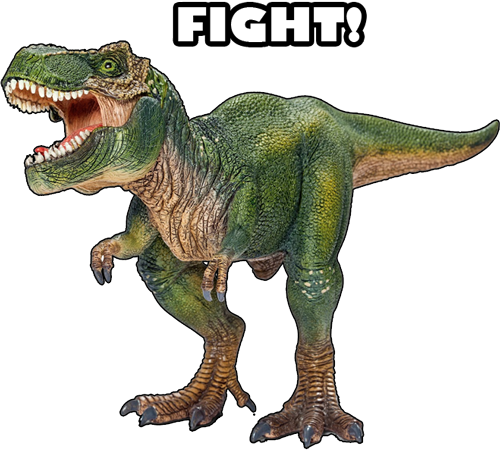
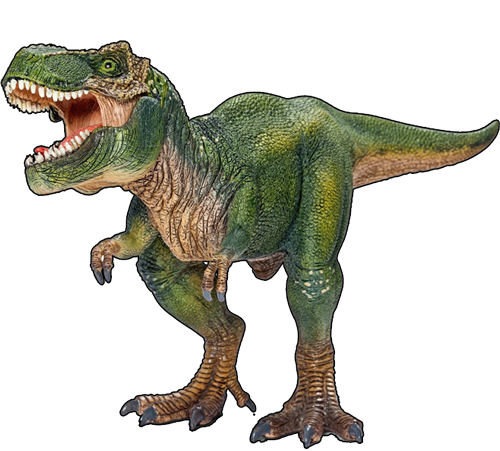
Add Count Down for Fight Scene… Lost one hour thanks to a AndEngine Feature… äääh Bug

Changed region(s): [[0.33, 0.0, 0.75, 0.1242]]

diff --git a/src/gamedev/scenes/FightScene.java b/src/gamedev/scenes/FightScene.java
@@ -16,7 +16,9 @@ import org.andengine.entity.scene.CameraScene;
 import org.andengine.entity.scene.IOnSceneTouchListener;
 import org.andengine.entity.scene.Scene;
 import org.andengine.entity.sprite.Sprite;
+import org.andengine.entity.text.Text;
 import org.andengine.input.touch.TouchEvent;
+import org.andengine.util.HorizontalAlign;
 import org.andengine.util.color.Color;
 import org.andengine.util.math.MathUtils;
 
@@ -27,7 +29,8 @@ public class FightScene extends CameraScene {
 	private final static int FIGHTBAR_WIDTH = 400;
 	private static final int FIGHTBAR_HEIGHT = 300;
 	private final static float TARGET_RADIUS = 50;
-
+	private final static int SECONDS_COUNTDOWN = 1;
+	
 	protected Sprite fightDino;
 	protected Dinosaur dinosaur;
 	protected ResourcesManager resourcesManager;
@@ -38,6 +41,11 @@ public class FightScene extends CameraScene {
 											// seconds)
 	protected float frequencyOfTargets = 0.2f; // How often are new targets
 												// created in seconds
+	protected float countdownTime = 0;
+	protected int countdownIndex = 0;
+	protected boolean countdownActive = false;
+	protected Text countdownText;
+	protected ArrayList<String> countdownStrings = new ArrayList<String>();
 	private static FightScene instance;
 	
 	protected Random r = new Random();
@@ -89,6 +97,13 @@ public class FightScene extends CameraScene {
 				return false;
 			}
 		});
+		
+		this.countdownStrings.add("3     ");
+		this.countdownStrings.add("2     ");
+		this.countdownStrings.add("1     ");
+		this.countdownStrings.add("Fight!");
+		this.countdownText = new Text(0, 0, ResourcesManager.getInstance().font, "      ", ResourcesManager.getInstance().vbom);
+		this.attachChild(this.countdownText);
 
 	}
 
@@ -109,51 +124,73 @@ public class FightScene extends CameraScene {
 		if (this.dinosaur.getScaleX() > 1) {
 			this.frequencyOfTargets = this.frequencyOfTargets * 0.8f;
 		}
+		this.countdownActive = true;
+		this.countdownText.setHorizontalAlign(HorizontalAlign.CENTER);
+		this.centerShapeInCamera(this.countdownText);
+		this.countdownText.setVisible(true);
 	}
 
 	public void onManagedUpdate(float seconds) {
 		if (this.dinosaur == null)
 			return;
-		this.fightDuration += seconds;
-		this.lastTargetCreated += seconds;
-
-		// First step: Check for dismissed targets!
-		for (Target t : this.targets) {
-			if ((this.fightDuration - t.getTimeShowed()) > t.getTimeCreated()) {
-				// Missed!
-				if (t.getDamageMiss() > 0)
-					resourcesManager.avatar.attack(t.getDamageMiss());
-				t.setRemovable(true);
-				// System.out.println("You dismissed target [actual time: "+
-				// fightDuration + ", created: " + t.getTimeCreated() +
-				// ", timeAlive: " + t.getTimeAlive()+"]");
+		
+		if (this.countdownActive) {
+			this.countdownTime += seconds;
+			if (this.countdownTime > SECONDS_COUNTDOWN) {
+				if (this.countdownIndex == this.countdownStrings.size()) {
+					this.countdownIndex = 0;
+					this.countdownTime = 0;
+					this.countdownActive = false;
+					this.countdownText.setText("      ");
+					this.countdownText.setVisible(false);
+					return;
+				}
+				this.countdownTime = 0;
+				this.countdownText.setText(this.countdownStrings.get(this.countdownIndex));					
+				this.countdownIndex++;
 			}
-			if (t.isRemovable())
-				targetsToRemove.add(t);
-		}
+		} else {
+			this.fightDuration += seconds;
+			this.lastTargetCreated += seconds;
 
-		// Second step: Remove targets - add them back to Pool and off the screen!
-		for (Target t : targetsToRemove) {
-			this.targets.remove(t);
-//			this.detachChild(t);
-//			t.dispose();
-			t.resetTarget();
-			targetPool.add(t);
-		}
-		this.targetsToRemove.clear();
-
-		// Third step: Check how much new target should be created.
-		// Note that this depends on the time how often this method can be
-		// called - therefore we maybe must create multiple targets on slower
-		// devices
-		if (this.lastTargetCreated > this.frequencyOfTargets) {
-			int nTargets = (int) (this.lastTargetCreated / this.frequencyOfTargets);
-			this.lastTargetCreated = 0;
-			for (int i = 0; i < nTargets; i++) {
-				Target t = this.generateTarget();
-				this.targets.add(t);
+			// First step: Check for dismissed targets!
+			for (Target t : this.targets) {
+				if ((this.fightDuration - t.getTimeShowed()) > t.getTimeCreated()) {
+					// Missed!
+					if (t.getDamageMiss() > 0)
+						resourcesManager.avatar.attack(t.getDamageMiss());
+					t.setRemovable(true);
+					// System.out.println("You dismissed target [actual time: "+
+					// fightDuration + ", created: " + t.getTimeCreated() +
+					// ", timeAlive: " + t.getTimeAlive()+"]");
+				}
+				if (t.isRemovable())
+					targetsToRemove.add(t);
 			}
+
+			// Second step: Remove targets - add them back to Pool and off the screen!
+			for (Target t : targetsToRemove) {
+				this.targets.remove(t);
+				t.resetTarget();
+				targetPool.add(t);
+			}
+			this.targetsToRemove.clear();
+
+			// Third step: Check how much new target should be created.
+			// Note that this depends on the time how often this method can be
+			// called - therefore we maybe must create multiple targets on slower
+			// devices
+			if (this.lastTargetCreated > this.frequencyOfTargets) {
+				int nTargets = (int) (this.lastTargetCreated / this.frequencyOfTargets);
+				this.lastTargetCreated = 0;
+				for (int i = 0; i < nTargets; i++) {
+					Target t = this.generateTarget();
+					this.targets.add(t);
+				}
+			}
+		
 		}
+		
 	}
 
 	/**
@@ -241,10 +278,11 @@ public class FightScene extends CameraScene {
 
 	protected void onClose() {
 		for (Target t : this.targets) {
-			this.detachChild(t);
-			t.dispose();
+			t.resetTarget();
+			targetPool.add(t);
 		}
 		this.targets.clear();
+		this.targetsToRemove.clear();
 		this.dinosaur = null;
 		this.fightDuration = 0;
 		this.lastTargetCreated = 0;
